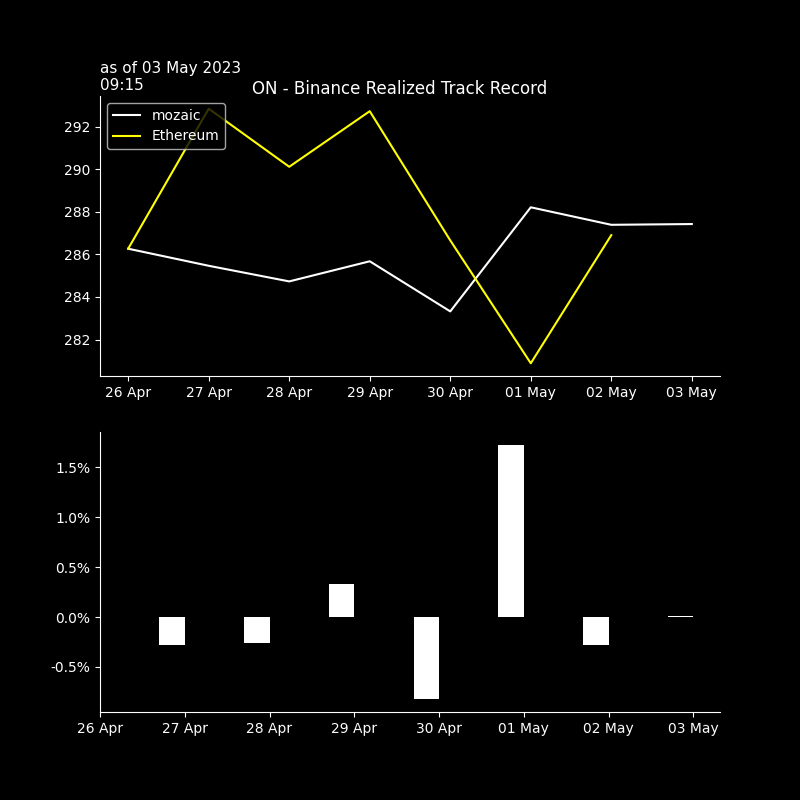
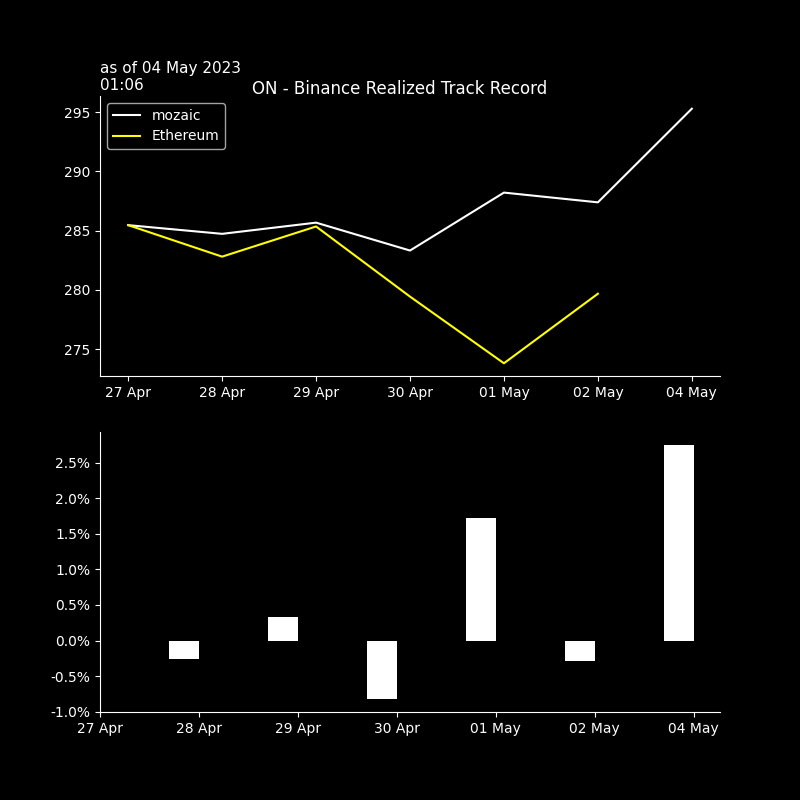
seb_commit

diff --git a/crypto/graphs/bt_trades_book.htmltrade_trades_book.html b/crypto/graphs/bt_trades_book.htmltrade_trades_book.html
@@ -37,55 +37,55 @@
   </thead>
   <tbody>
     <tr>
-      <th>BTCUSDT</th>
-      <td>28339.9000</td>
-      <td>2023-05-03 20:03:46</td>
-      <td>0.005</td>
-      <td>$141.7</td>
-      <td>$0.03</td>
+      <th>XRPUSDT</th>
+      <td>0.4619</td>
+      <td>2023-05-04 00:06:08</td>
+      <td>-395.600</td>
+      <td>$-182.7</td>
+      <td>$0.04</td>
       <td>2.0</td>
-      <td>0.0</td>
-      <td>28306.45000</td>
-      <td>2023-05-03 21:01</td>
+      <td>1.9</td>
+      <td>0.46235</td>
+      <td>2023-05-04 01:02</td>
       <td>-0.2</td>
-      <td>-12.0</td>
-      <td>28343.9</td>
+      <td>-10.0</td>
+      <td>.4619</td>
       <td>0.0</td>
-      <td>1.0</td>
+      <td>0.0</td>
+    </tr>
+    <tr>
+      <th>BTCUSDT</th>
+      <td>29045.3000</td>
+      <td>2023-05-04 00:04:18</td>
+      <td>-0.006</td>
+      <td>$-174.3</td>
+      <td>$0.04</td>
+      <td>2.0</td>
+      <td>3.5</td>
+      <td>29017.80000</td>
+      <td>2023-05-04 01:02</td>
+      <td>0.2</td>
+      <td>9.0</td>
+      <td>29024.4</td>
+      <td>0.1</td>
+      <td>7.0</td>
     </tr>
     <tr>
       <th>ETHUSDT</th>
-      <td>1869.9000</td>
-      <td>2023-05-03 20:03:23</td>
-      <td>0.077</td>
-      <td>$144.0</td>
+      <td>1903.9100</td>
+      <td>2023-05-04 00:04:18</td>
+      <td>-0.077</td>
+      <td>$-146.6</td>
       <td>$0.03</td>
       <td>2.0</td>
-      <td>0.0</td>
-      <td>1869.15500</td>
-      <td>2023-05-03 21:01</td>
-      <td>-0.1</td>
-      <td>-4.0</td>
-      <td>1869.57</td>
-      <td>-0.0</td>
-      <td>-2.0</td>
-    </tr>
-    <tr>
-      <th>XRPUSDT</th>
-      <td>0.4558</td>
-      <td>2023-05-03 20:04:18</td>
-      <td>315.900</td>
-      <td>$144.0</td>
-      <td>$0.03</td>
-      <td>2.0</td>
-      <td>0.0</td>
-      <td>0.45495</td>
-      <td>2023-05-03 21:01</td>
-      <td>-0.3</td>
-      <td>-19.0</td>
-      <td>.4557</td>
-      <td>-0.0</td>
-      <td>-2.0</td>
+      <td>2.6</td>
+      <td>1902.96500</td>
+      <td>2023-05-04 01:02</td>
+      <td>0.1</td>
+      <td>5.0</td>
+      <td>1903.12</td>
+      <td>0.1</td>
+      <td>4.0</td>
     </tr>
   </tbody>
 </table>

diff --git a/crypto/graphs/bt_trades_pnlD_recap.htmltrade_trades_pnlD_recap.html b/crypto/graphs/bt_trades_pnlD_recap.htmltrade_trades_pnlD_recap.html
@@ -1,7 +1,7 @@
 <table border="1" class="dataframe">
   <thead>
     <tr style="text-align: right;">
-      <th>03 May 21:04</th>
+      <th>04 May 01:06</th>
       <th>realizedPnl</th>
       <th>PnLvsArrival</th>
       <th>PnLvsLast</th>
@@ -10,21 +10,21 @@
   <tbody>
     <tr>
       <th>in$</th>
-      <td>0.0</td>
-      <td>-0.5</td>
-      <td>-0.0</td>
+      <td>8.1</td>
+      <td>0.1</td>
+      <td>0.2</td>
     </tr>
     <tr>
-      <th>in bp 429 traded</th>
-      <td>0 bp</td>
-      <td>-12 bp</td>
-      <td>-1 bp</td>
+      <th>in bp 503 traded</th>
+      <td>160 bp</td>
+      <td>1 bp</td>
+      <td>4 bp</td>
     </tr>
     <tr>
-      <th>in bp 287 AUMs</th>
-      <td>0 bp</td>
-      <td>-17 bp</td>
-      <td>-1 bp</td>
+      <th>in bp 295 AUMs</th>
+      <td>274 bp</td>
+      <td>2 bp</td>
+      <td>6 bp</td>
     </tr>
   </tbody>
 </table>

diff --git a/crypto/graphs/bt_trades_recap.htmltrade_trades_recap.html b/crypto/graphs/bt_trades_recap.htmltrade_trades_recap.html
@@ -9,32 +9,32 @@
   <tbody>
     <tr>
       <th>as of</th>
-      <td>03May 20:03&gt;&gt;20:04</td>
+      <td>04May 00:04&gt;&gt;00:06</td>
       <td>#trades: 3</td>
     </tr>
     <tr>
       <th>trade net</th>
-      <td>+430.0</td>
-      <td>+149.6%</td>
+      <td>-504.0</td>
+      <td>-170.7%</td>
     </tr>
     <tr>
       <th>trade gross</th>
-      <td>+430.0</td>
-      <td>+149.6%</td>
+      <td>+504.0</td>
+      <td>+170.7%</td>
     </tr>
     <tr>
       <th>BUY</th>
-      <td>+430.0</td>
-      <td>+149.6%</td>
-    </tr>
-    <tr>
-      <th>SELL</th>
       <td>+0.0</td>
       <td>+0.0%</td>
     </tr>
     <tr>
+      <th>SELL</th>
+      <td>-504.0</td>
+      <td>-170.7%</td>
+    </tr>
+    <tr>
       <th>fees</th>
-      <td>$ 0.086</td>
+      <td>$ 0.101</td>
       <td>2.0bp</td>
     </tr>
   </tbody>
